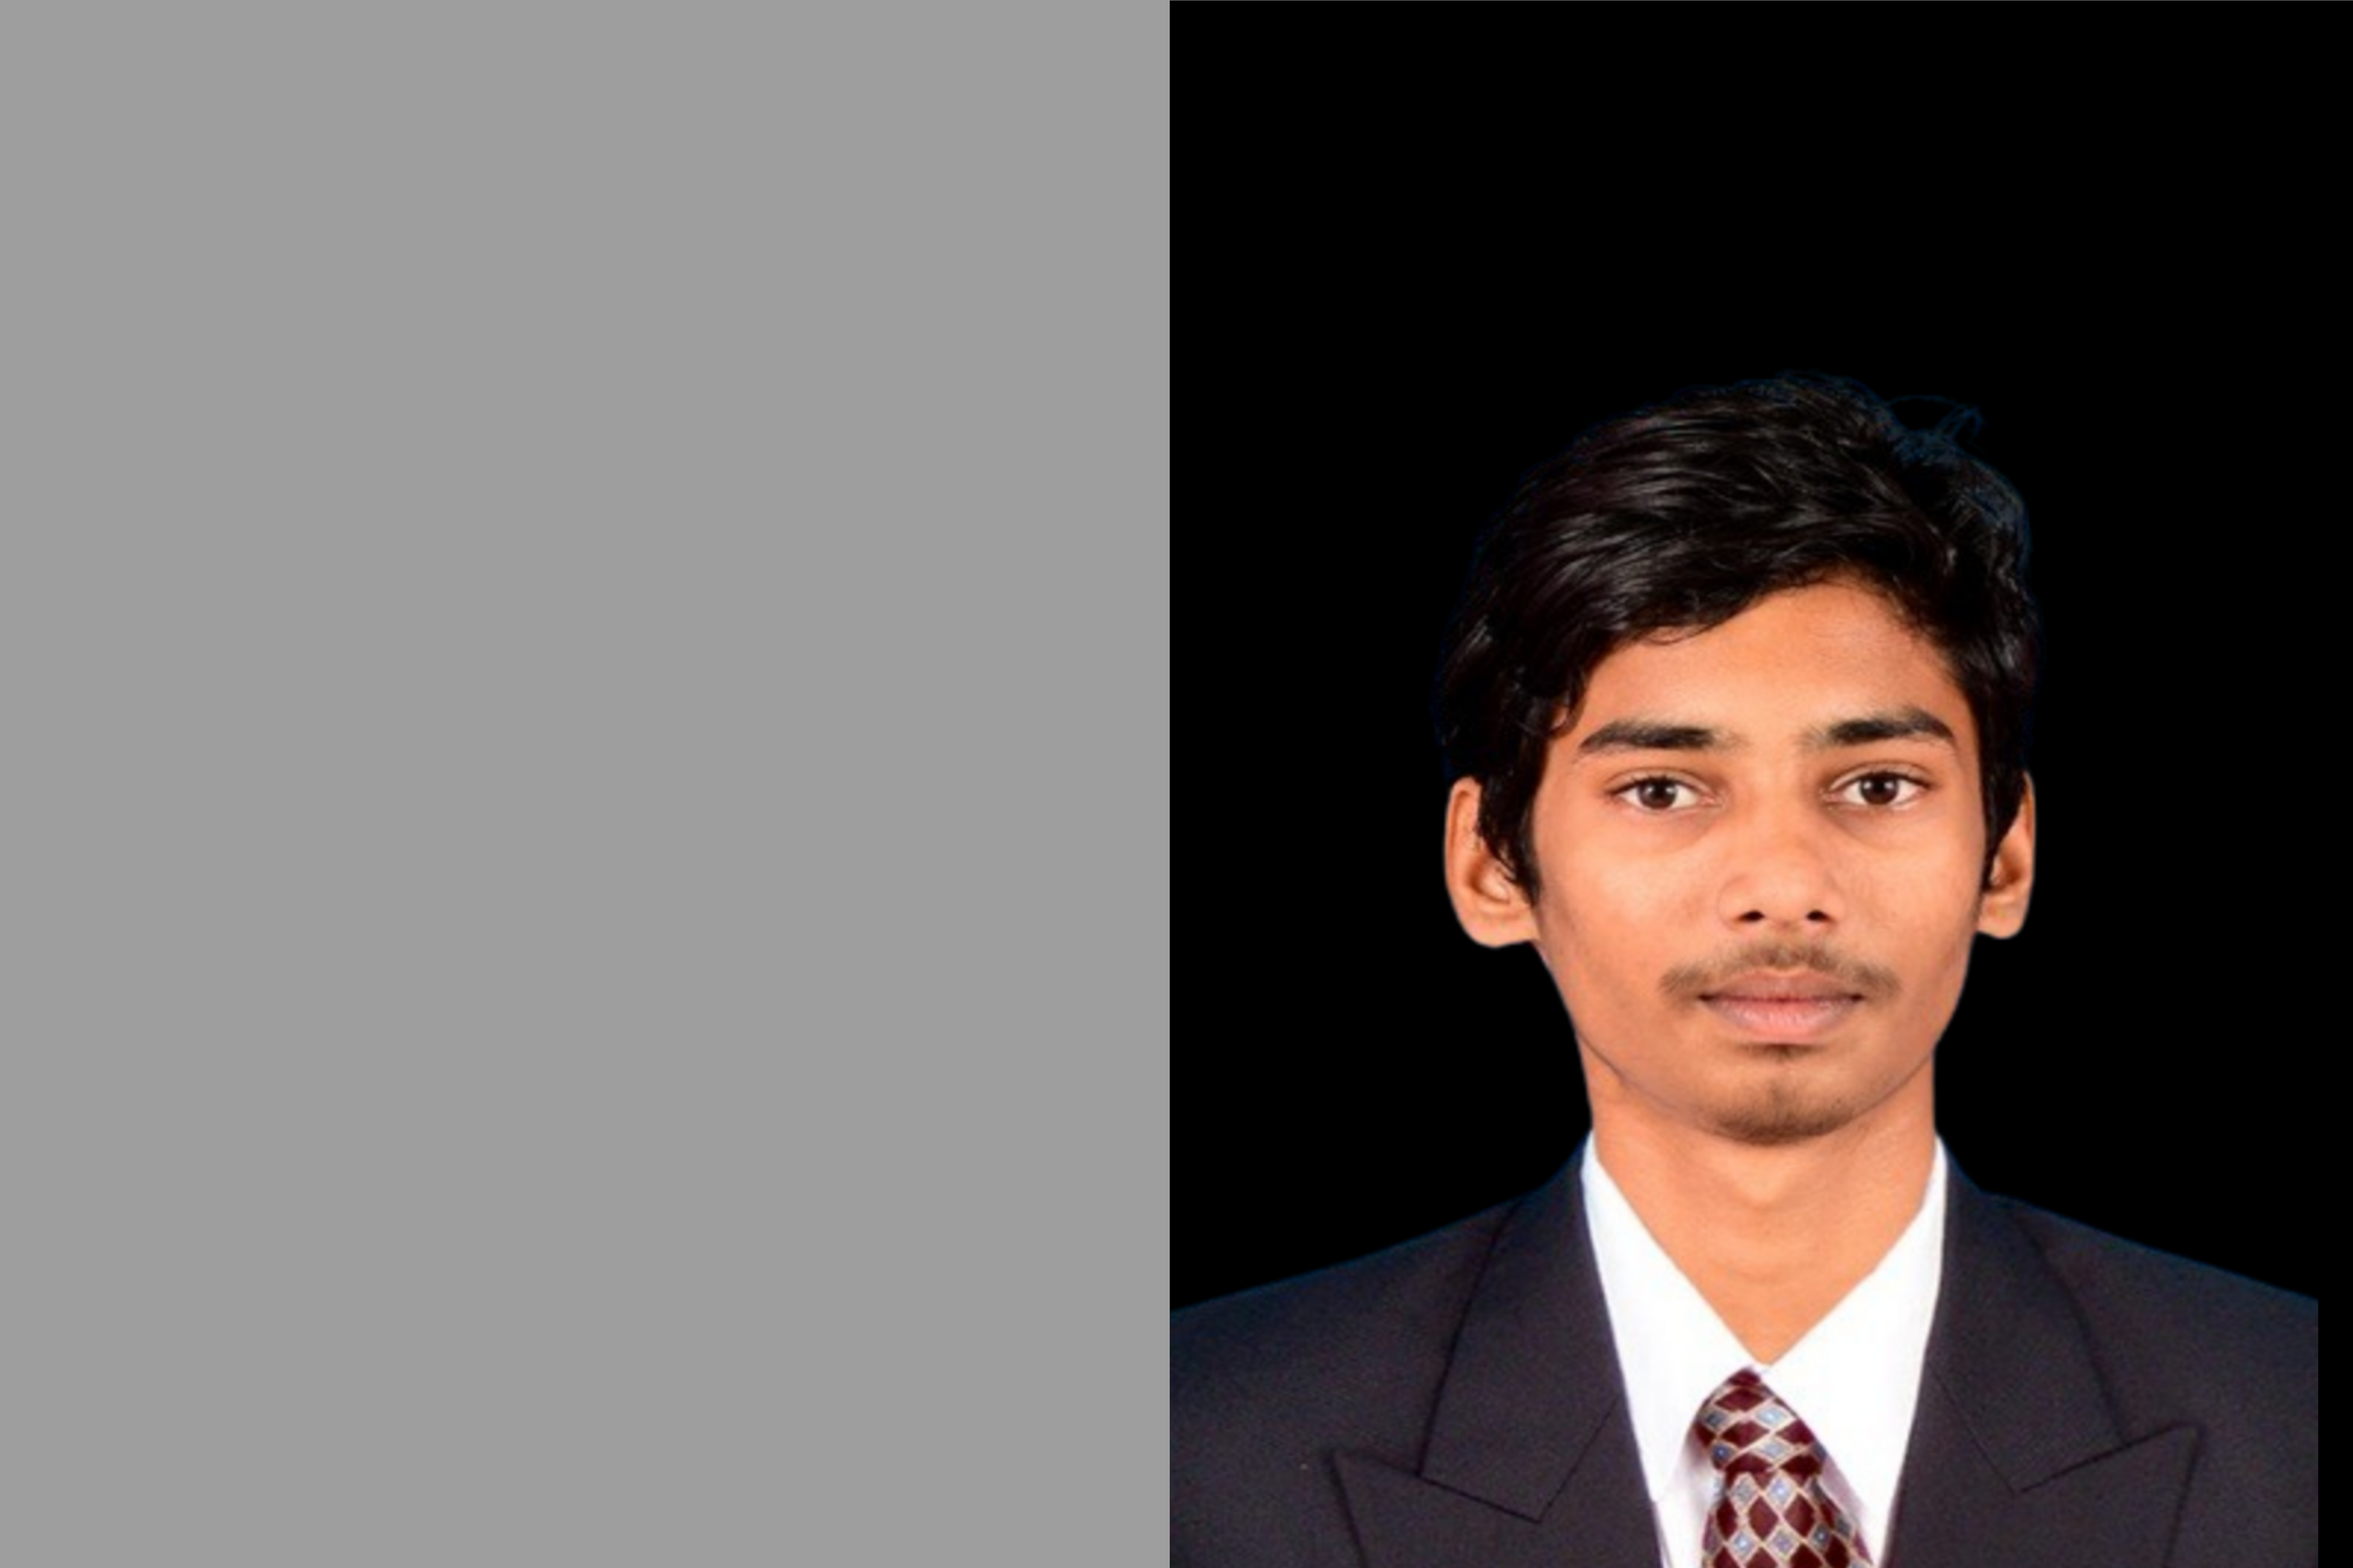
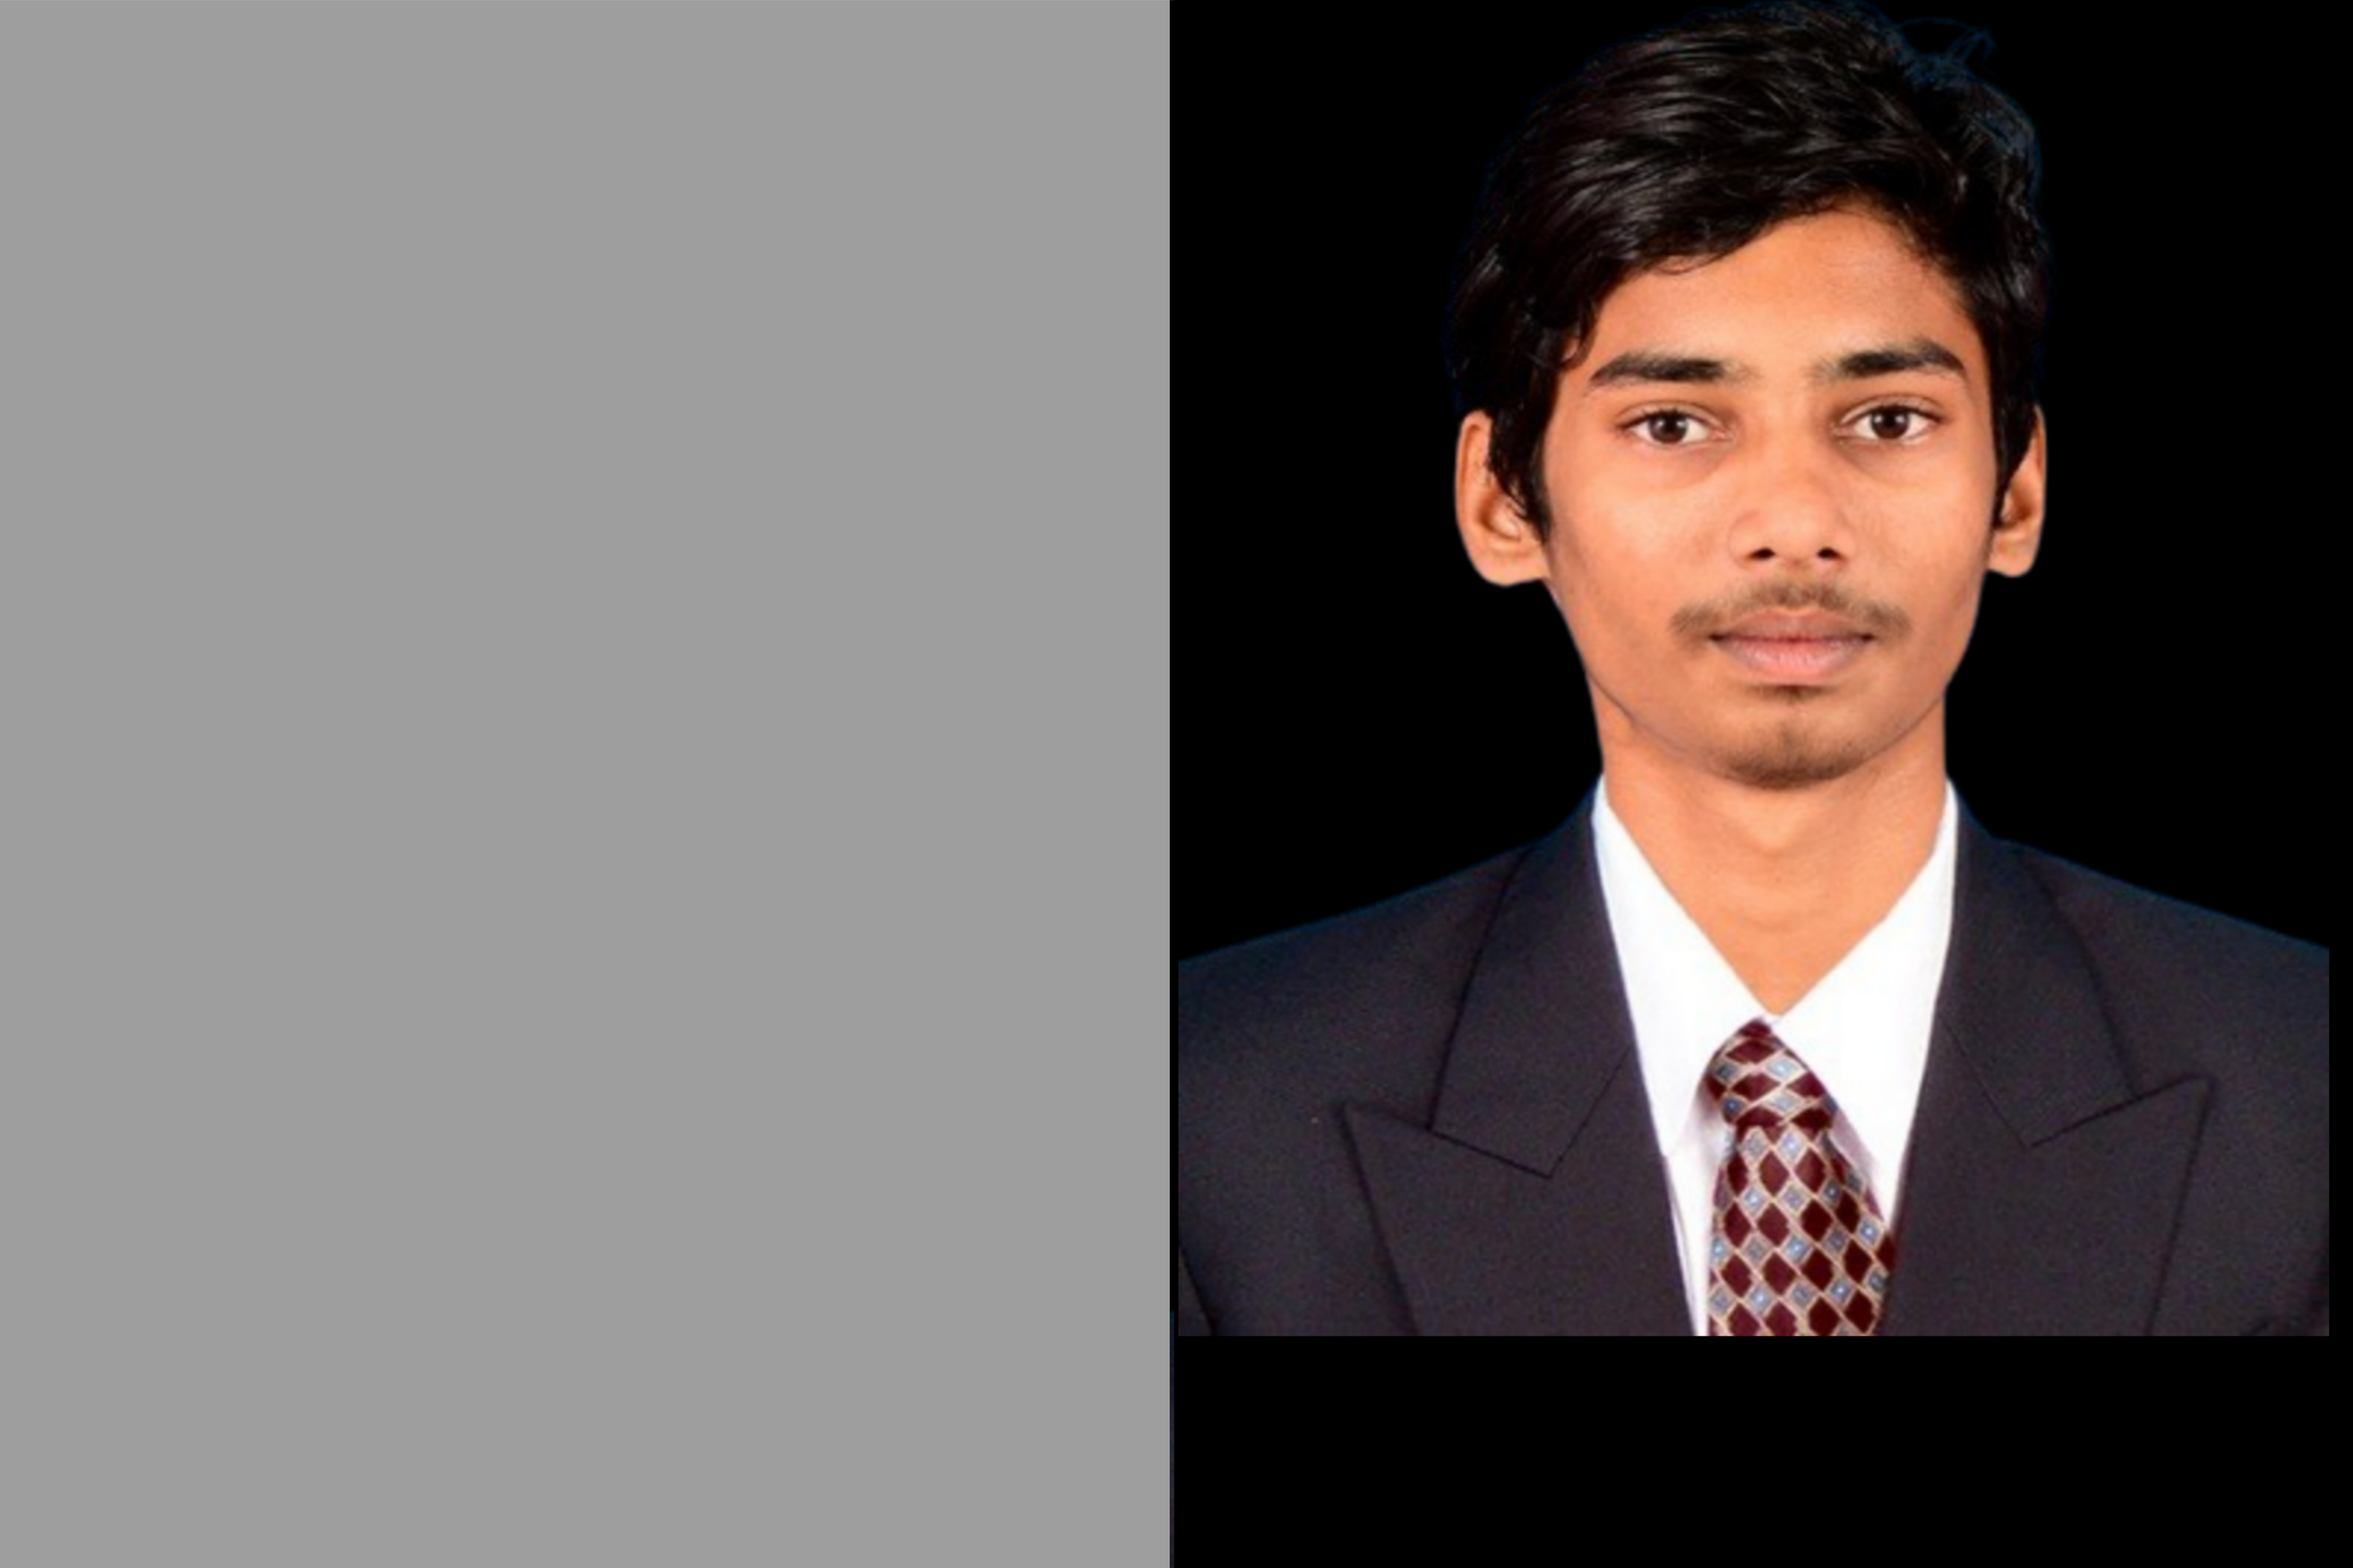
Lanyard.tsx to jsx
Converted Lanyard.tsx to Lanyard.jsx to solve that 2 err

Changed region(s): [[0.4988, 0.0, 0.9977, 1.0]]

diff --git a/Components/Animations/Lanyard.jsx b/Components/Animations/Lanyard.jsx
@@ -1,10 +1,4 @@
-/* eslint-disable react/no-unknown-property */
 "use client";
-import {
-  MeshLine,
-  MeshLineGeometry,
-  MeshLineMaterial,
-} from "@lume/three-meshline";
 
 import { useEffect, useRef, useState } from "react";
 import { Canvas, extend, useFrame } from "@react-three/fiber";
@@ -14,6 +8,7 @@ import {
   Environment,
   Lightformer,
 } from "@react-three/drei";
+
 import {
   BallCollider,
   CuboidCollider,
@@ -21,42 +16,40 @@ import {
   RigidBody,
   useRopeJoint,
   useSphericalJoint,
-  RigidBodyProps,
 } from "@react-three/rapier";
+
+import { MeshLineGeometry, MeshLineMaterial } from "meshline";
 import * as THREE from "three";
-extend({ MeshLine, MeshLineGeometry, MeshLineMaterial });
-// Static asset paths (served from /public)
+
+// asset paths
 const cardGLB = "/card.glb";
 const lanyard = "/lanyard.png";
+const photo = "/ME.png";
 
-interface LanyardProps {
-  position?: [number, number, number];
-  gravity?: [number, number, number];
-  fov?: number;
-  transparent?: boolean;
-}
+extend({ MeshLineGeometry, MeshLineMaterial });
 
 export default function Lanyard({
   position = [0, 0, 30],
   gravity = [0, -40, 0],
   fov = 20,
   transparent = true,
-}: LanyardProps) {
+}) {
   return (
-    <div className="relative z-0 w-full h-screen  transform scale-100 origin-top ">
+    <div className="relative z-0 w-full h-screen flex justify-center items-center">
       <Canvas
         camera={{ position, fov }}
         gl={{ alpha: transparent }}
-        style={{ overflow: "visible" }}
         onCreated={({ gl }) =>
           gl.setClearColor(new THREE.Color(0x000000), transparent ? 0 : 1)
         }
       >
         <ambientLight intensity={Math.PI} />
+
         <Physics gravity={gravity} timeStep={1 / 60}>
           <Band />
         </Physics>
 
+        {/* Environment light setup */}
         <Environment blur={0.75}>
           <Lightformer
             intensity={2}
@@ -92,46 +85,36 @@ export default function Lanyard({
   );
 }
 
-interface BandProps {
-  maxSpeed?: number;
-  minSpeed?: number;
-}
-
-function Band({ maxSpeed = 50, minSpeed = 0 }: BandProps) {
-  const band = useRef<any>(null);
-  const fixed = useRef<any>(null);
-  const j1 = useRef<any>(null);
-  const j2 = useRef<any>(null);
-  const j3 = useRef<any>(null);
-  const card = useRef<any>(null);
+function Band({ maxSpeed = 50, minSpeed = 0 }) {
+  const band = useRef();
+  const fixed = useRef();
+  const j1 = useRef();
+  const j2 = useRef();
+  const j3 = useRef();
+  const card = useRef();
 
   const vec = new THREE.Vector3();
   const ang = new THREE.Vector3();
   const rot = new THREE.Vector3();
   const dir = new THREE.Vector3();
 
-  const segmentProps: any = {
-    type: "dynamic" as RigidBodyProps["type"],
+  const segmentProps = {
+    type: "dynamic",
     canSleep: true,
     colliders: false,
     angularDamping: 4,
     linearDamping: 4,
   };
 
-  const { nodes, materials } = useGLTF(cardGLB) as any;
-  const texture = useTexture(lanyard);
-
-  // ✅ Apply anisotropy & roughness imperatively after load
-  useEffect(() => {
-    if (materials?.base?.map) {
-      materials.base.map.anisotropy = 16;
-      materials.base.map.needsUpdate = true;
-    }
-    if (materials?.metal) {
-      materials.metal.roughness = 0.3;
-      materials.metal.needsUpdate = true;
-    }
-  }, [materials]);
+  const { nodes, materials } = useGLTF(cardGLB);
+  const strapTexture = useTexture(lanyard, (tex) => {
+    tex.wrapS = THREE.RepeatWrapping;
+    tex.wrapT = THREE.RepeatWrapping;
+    tex.repeat.set(-4, 1); // if you want repeat
+  });
+  const photoTexture = useTexture(photo, (tex) => {
+    tex.flipY = false;
+  });
 
   const [curve] = useState(
     () =>
@@ -143,23 +126,18 @@ function Band({ maxSpeed = 50, minSpeed = 0 }: BandProps) {
       ])
   );
 
-  const [dragged, drag] = useState<false | THREE.Vector3>(false);
+  const [dragged, drag] = useState(false);
   const [hovered, hover] = useState(false);
-  const photoTexture = useTexture("/ME.png");
 
-  const [isSmall, setIsSmall] = useState<boolean>(() =>
-    typeof window !== "undefined" ? window.innerWidth < 1024 : false
+  const [isSmall, setIsSmall] = useState(
+    () => typeof window !== "undefined" && window.innerWidth < 1024
   );
 
-  useEffect(() => {
-    const handleResize = () => setIsSmall(window.innerWidth < 1024);
-    window.addEventListener("resize", handleResize);
-    return () => window.removeEventListener("resize", handleResize);
-  }, []);
-
+  // 🔗 Rope joints
   useRopeJoint(fixed, j1, [[0, 0, 0], [0, 0, 0], 1]);
   useRopeJoint(j1, j2, [[0, 0, 0], [0, 0, 0], 1]);
   useRopeJoint(j2, j3, [[0, 0, 0], [0, 0, 0], 1]);
+
   useSphericalJoint(j3, card, [
     [0, 0, 0],
     [0, 1.45, 0],
@@ -168,93 +146,104 @@ function Band({ maxSpeed = 50, minSpeed = 0 }: BandProps) {
   useEffect(() => {
     if (hovered) {
       document.body.style.cursor = dragged ? "grabbing" : "grab";
-      return () => {
-        document.body.style.cursor = "auto";
-      };
+      return () => (document.body.style.cursor = "auto");
     }
   }, [hovered, dragged]);
 
+  useEffect(() => {
+    const resize = () => setIsSmall(window.innerWidth < 1024);
+    window.addEventListener("resize", resize);
+    return () => window.removeEventListener("resize", resize);
+  }, []);
+
+  // 🎮 Drag mechanics
   useFrame((state, delta) => {
-    if (dragged && typeof dragged !== "boolean") {
+    if (dragged) {
       vec.set(state.pointer.x, state.pointer.y, 0.5).unproject(state.camera);
       dir.copy(vec).sub(state.camera.position).normalize();
       vec.add(dir.multiplyScalar(state.camera.position.length()));
+
       [card, j1, j2, j3, fixed].forEach((ref) => ref.current?.wakeUp());
+
       card.current?.setNextKinematicTranslation({
         x: vec.x - dragged.x,
         y: vec.y - dragged.y,
         z: vec.z - dragged.z,
       });
     }
+
     if (fixed.current) {
       [j1, j2].forEach((ref) => {
         if (!ref.current.lerped)
           ref.current.lerped = new THREE.Vector3().copy(
             ref.current.translation()
           );
-        const clampedDistance = Math.max(
-          0.1,
-          Math.min(1, ref.current.lerped.distanceTo(ref.current.translation()))
-        );
+
+        const dist = ref.current.lerped.distanceTo(ref.current.translation());
+
+        const clamped = Math.max(0.1, Math.min(1, dist));
+
         ref.current.lerped.lerp(
           ref.current.translation(),
-          delta * (minSpeed + clampedDistance * (maxSpeed - minSpeed))
+          delta * (minSpeed + clamped * (maxSpeed - minSpeed))
         );
       });
+
       curve.points[0].copy(j3.current.translation());
       curve.points[1].copy(j2.current.lerped);
       curve.points[2].copy(j1.current.lerped);
       curve.points[3].copy(fixed.current.translation());
+
       band.current.geometry.setPoints(curve.getPoints(32));
+
       ang.copy(card.current.angvel());
       rot.copy(card.current.rotation());
-      card.current.setAngvel({ x: ang.x, y: ang.y - rot.y * 0.25, z: ang.z });
+
+      card.current.setAngvel({
+        x: ang.x,
+        y: ang.y - rot.y * 0.25,
+        z: ang.z,
+      });
     }
   });
 
-  curve.curveType = "chordal";
-  texture.wrapS = texture.wrapT = THREE.RepeatWrapping;
+  // Texture wrap
 
   return (
     <>
       <group position={[0, 4, 0]}>
-        <RigidBody
-          ref={fixed}
-          position={[0, 0, 0]}
-          {...segmentProps}
-          type={"fixed" as RigidBodyProps["type"]}
-        />
-        <RigidBody position={[0.5, 0, 0]} ref={j1} {...segmentProps}>
+        <RigidBody ref={fixed} {...segmentProps} type="fixed" />
+
+        <RigidBody ref={j1} position={[0.5, 0, 0]} {...segmentProps}>
           <BallCollider args={[0.1]} />
         </RigidBody>
-        <RigidBody position={[1, 0, 0]} ref={j2} {...segmentProps}>
+
+        <RigidBody ref={j2} position={[1, 0, 0]} {...segmentProps}>
           <BallCollider args={[0.1]} />
         </RigidBody>
-        <RigidBody position={[1.5, 0, 0]} ref={j3} {...segmentProps}>
+
+        <RigidBody ref={j3} position={[1.5, 0, 0]} {...segmentProps}>
           <BallCollider args={[0.1]} />
         </RigidBody>
 
         <RigidBody
-          position={[0, 0, 0]}
           ref={card}
+          position={[2, 0, 0]}
           {...segmentProps}
-          type={
-            dragged
-              ? ("kinematicPosition" as RigidBodyProps["type"])
-              : ("dynamic" as RigidBodyProps["type"])
-          }
+          type={dragged ? "kinematicPosition" : "dynamic"}
         >
           <CuboidCollider args={[0.8, 1.125, 0.01]} />
+
           <group
             scale={2.25}
             position={[0, -1.2, -0.05]}
             onPointerOver={() => hover(true)}
             onPointerOut={() => hover(false)}
-            onPointerUp={(e: any) => {
+            onPointerUp={(e) => {
               e.target.releasePointerCapture(e.pointerId);
               drag(false);
             }}
-            onPointerDown={(e: any) => {
+            onPointerDown={(e) => {
               e.target.setPointerCapture(e.pointerId);
               drag(
                 new THREE.Vector3()
@@ -263,12 +252,11 @@ function Band({ maxSpeed = 50, minSpeed = 0 }: BandProps) {
               );
             }}
           >
+            {/* ID CARD FRONT */}
             <mesh
               geometry={nodes.card.geometry}
-              rotation={[Math.PI, 0, 0]}
-              position={[0, 1, 0]}
+              rotation={[0, Math.PI, 0]} // Matches your card’s upside-down orientation
             >
-              {" "}
               <meshPhysicalMaterial
                 map={photoTexture}
                 clearcoat={1}
@@ -277,22 +265,24 @@ function Band({ maxSpeed = 50, minSpeed = 0 }: BandProps) {
                 metalness={0.8}
               />
             </mesh>
+
             <mesh geometry={nodes.clip.geometry} material={materials.metal} />
             <mesh geometry={nodes.clamp.geometry} material={materials.metal} />
           </group>
         </RigidBody>
       </group>
 
-      {/* 🧵 Lanyard strap */}
-
-      <mesh>
-        <meshLine attach="geometry" ref={band} />
+      {/* LANYARD STRAP */}
+      <mesh ref={band}>
+        <meshLineGeometry />
         <meshLineMaterial
-          attach="material"
-          map={texture}
-          lineWidth={1}
           color="white"
-          resolution={[1000, 1000]}
+          useMap
+          map={strapTexture}
+          repeat={[-4, 1]}
+          lineWidth={1}
+          depthTest={false}
+          resolution={isSmall ? [1000, 2000] : [1000, 1000]}
         />
       </mesh>
     </>
